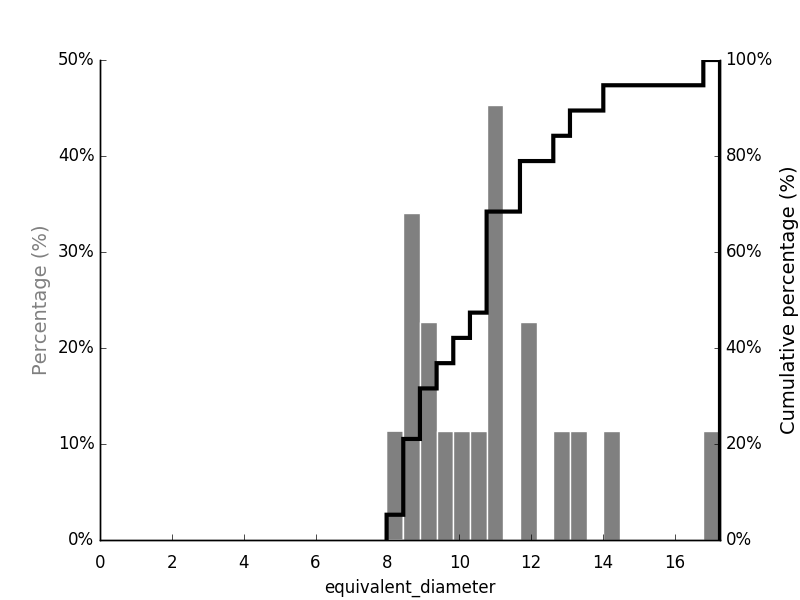
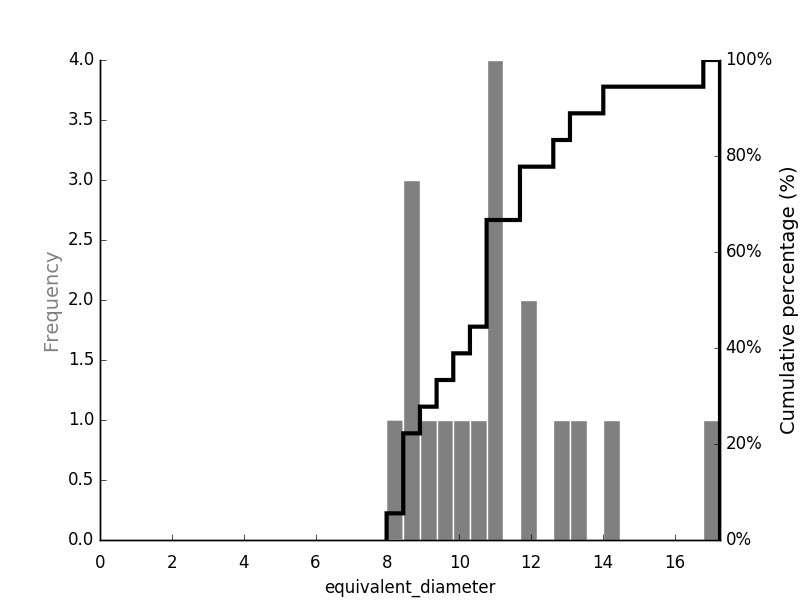
fix wrong percentage values on left axis of distribution

diff --git a/bubblekicker/bubblekicker.py b/bubblekicker/bubblekicker.py
@@ -323,16 +323,14 @@ def bubble_properties_plot(property_table,
     fontsize_labels = 14.
     formatter = FuncFormatter(
         lambda y, pos: "{:d}%".format(int(round(y * 100))))
-
     fig, ax1 = plt.subplots()
     ax1.hist(property_table[which_property], bins,
-             normed=1, cumulative=False, histtype='bar',
+             normed=0, cumulative=False, histtype='bar',
              color='gray', ec='white')
     ax1.get_xaxis().tick_bottom()
 
     # left axis - histogram
-    ax1.yaxis.set_major_formatter(formatter)
-    ax1.set_ylabel(r'Percentage (%)', color='gray',
+    ax1.set_ylabel(r'Frequency', color='gray',
                    fontsize=fontsize_labels)
     ax1.spines['top'].set_visible(False)
 
@@ -345,6 +343,7 @@ def bubble_properties_plot(property_table,
     ax2.set_ylabel(r'Cumulative percentage (%)', color='k',
                    fontsize=fontsize_labels)
     ax2.spines['top'].set_visible(False)
+    ax2.set_ylim(0, 1.)
 
     # additional options
     ax1.set_xlim(0, property_table[which_property].max())

diff --git a/examples/example_bubble.py b/examples/example_bubble.py
@@ -87,9 +87,10 @@ bubbler.plot()
 bubbler = CannyPipeline('drafts/0325097m_0305.tif', channel='red')
 result = bubbler.run([120, 180], 3, 3, 1, 1)
 nbubbles, marker_image, props = bubble_properties_calculate(result)
-fig, axs = bubble_properties_plot(props, "equivalent_diameter")
+filtered_bubbles = bubble_properties_filter(props)
+fig, axs = bubble_properties_plot(filtered_bubbles, "equivalent_diameter")
 fig.savefig("examples/output_eq_diameter.png")
-fig, axs = bubble_properties_plot(props, "area")
+fig, axs = bubble_properties_plot(filtered_bubbles, "area")
 fig.savefig("examples/output_area.png")
 
 # filter bubble properties based on a DEFAULT filter
